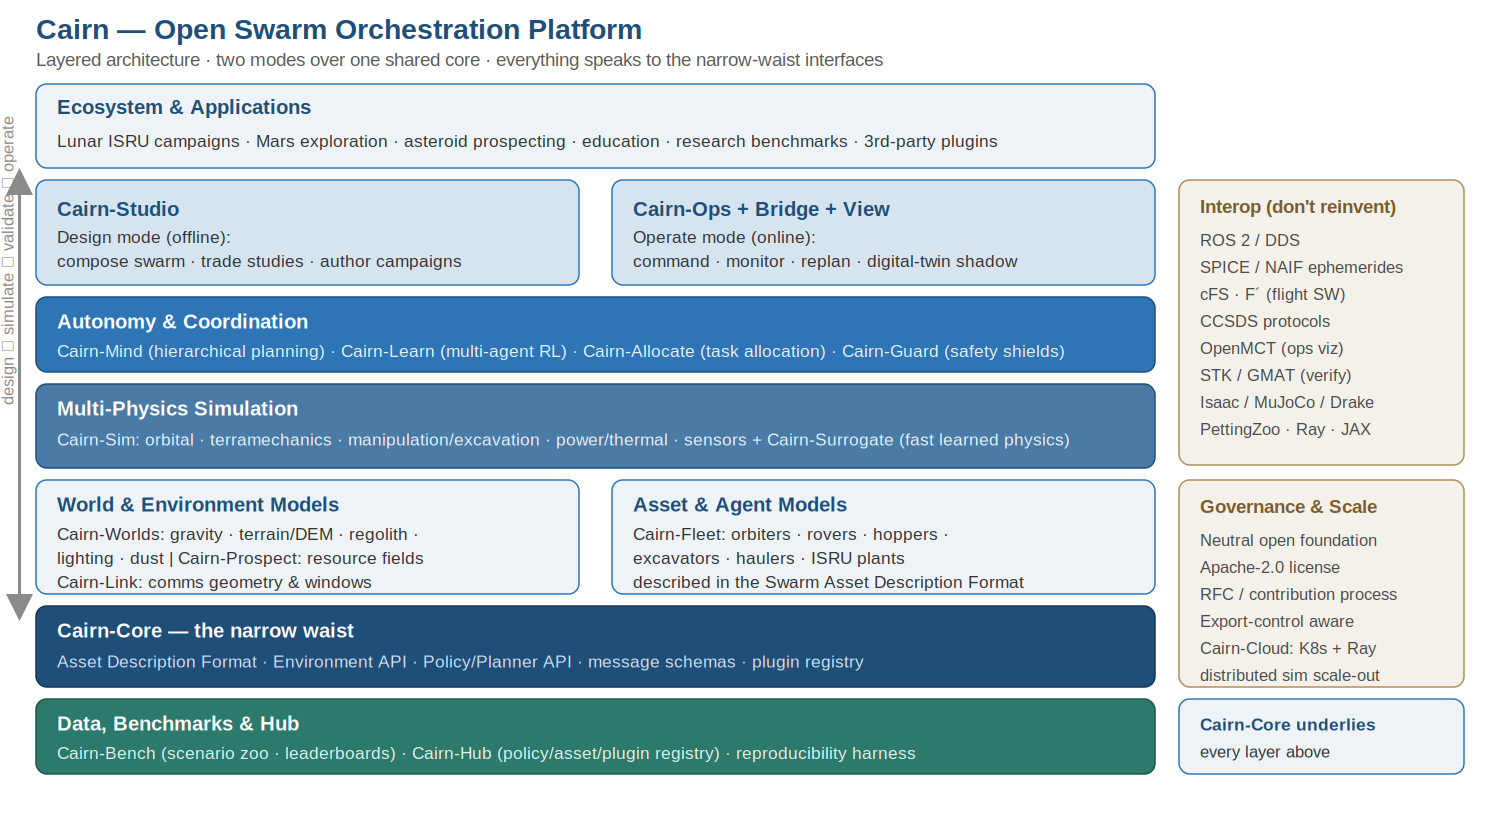
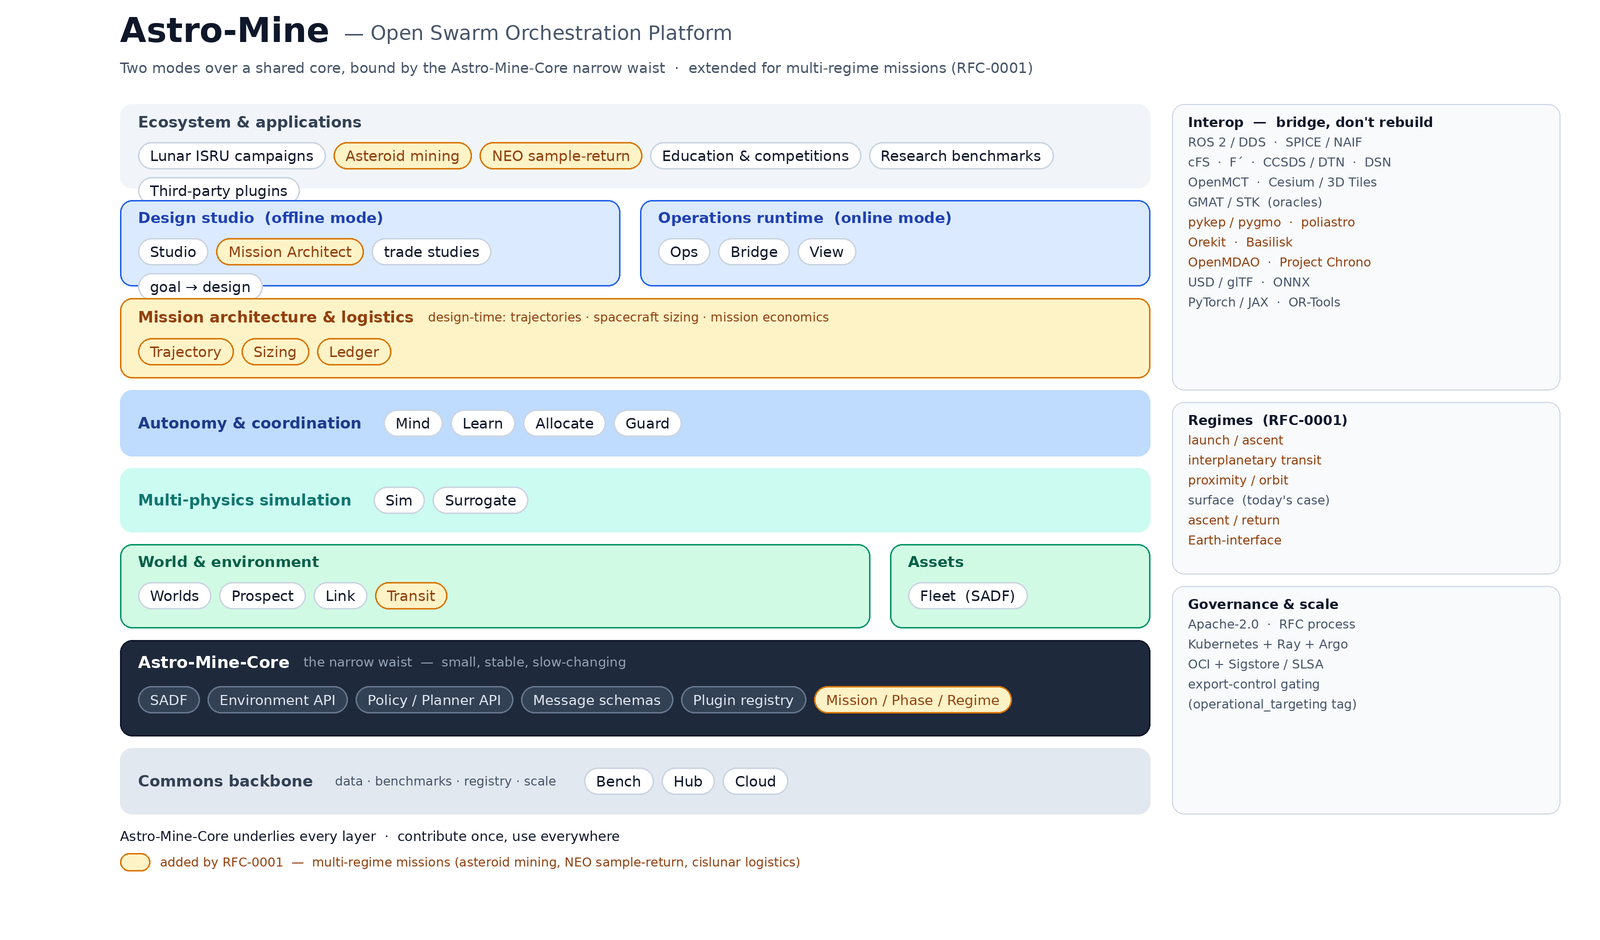
Regenerate Figure 1 with Astro-Mine branding and multi-regime (RFC-0001) scope
Replace the architecture figure: drop the old Cairn branding, render it as
Astro-Mine, and reflect the multi-regime mission-architecture extension —
the Mission architecture & logistics layer (Trajectory/Sizing/Ledger),
Astro-Mine-Transit, the Mission/Phase/Regime addition to Core, and the new
applications/interop, with RFC-0001 additions highlighted in amber. Update
the Figure 1 caption to match (and remove the Cairn note).

diff --git a/charter/Swarm_Exploration_ISRU_Orchestrator_OSS_Project.md b/charter/Swarm_Exploration_ISRU_Orchestrator_OSS_Project.md
@@ -67,7 +67,7 @@ Astro-Mine is organized as a layered stack. Environment and asset models describ
 
 ![Figure 1. Astro-Mine layered architecture](figure-1-architecture.png)
 
-*Figure 1. Astro-Mine layered architecture. Two modes (design / operate) over a shared simulation and autonomy core, bound by the Astro-Mine-Core interfaces and fed by an open benchmark-and-hub backbone. (Cairn is the old brand name replaced by Astro-Mine)*
+*Figure 1. Astro-Mine layered architecture. Two modes (design / operate) over a shared simulation and autonomy core, bound by the Astro-Mine-Core narrow-waist interfaces and fed by an open benchmark-and-hub backbone. Amber marks the multi-regime mission-architecture extension ([RFC-0001](../rfc/0001-multi-regime-missions.md)): the Mission architecture & logistics layer (Trajectory · Sizing · Ledger), Astro-Mine-Transit, and the Mission/Phase/Regime addition to Core.*
 
 The architectural principle is a thin, stable core with thick, swappable edges. Astro-Mine-Core is small and changes slowly; everything valuable — worlds, robots, planners, policies, ISRU processes — is a plugin that can be contributed, versioned, and replaced without touching the core. That is what converts a toolkit into a platform.
 
